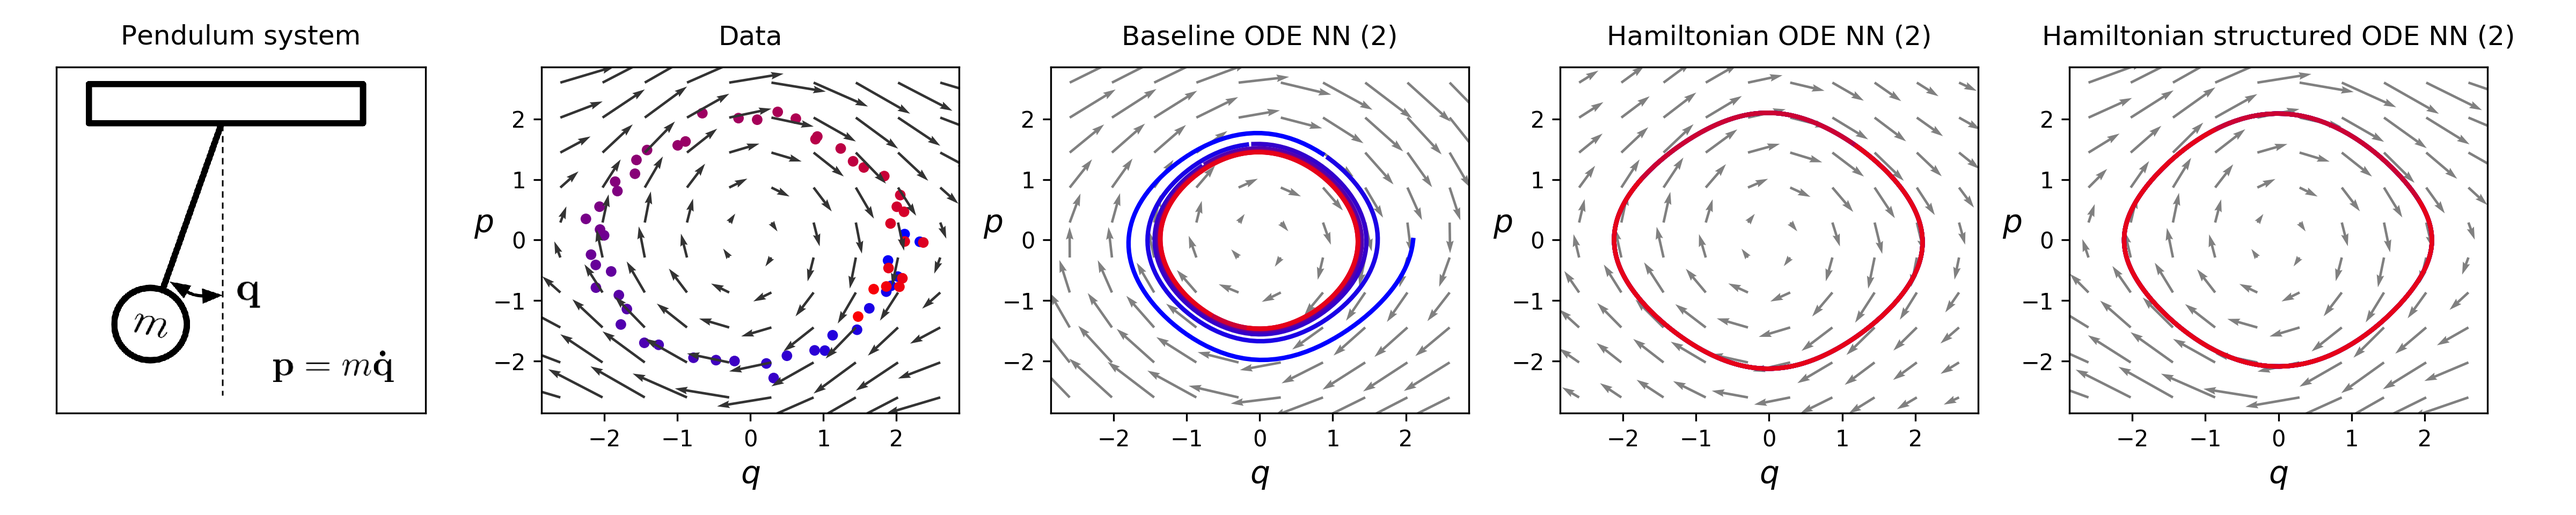
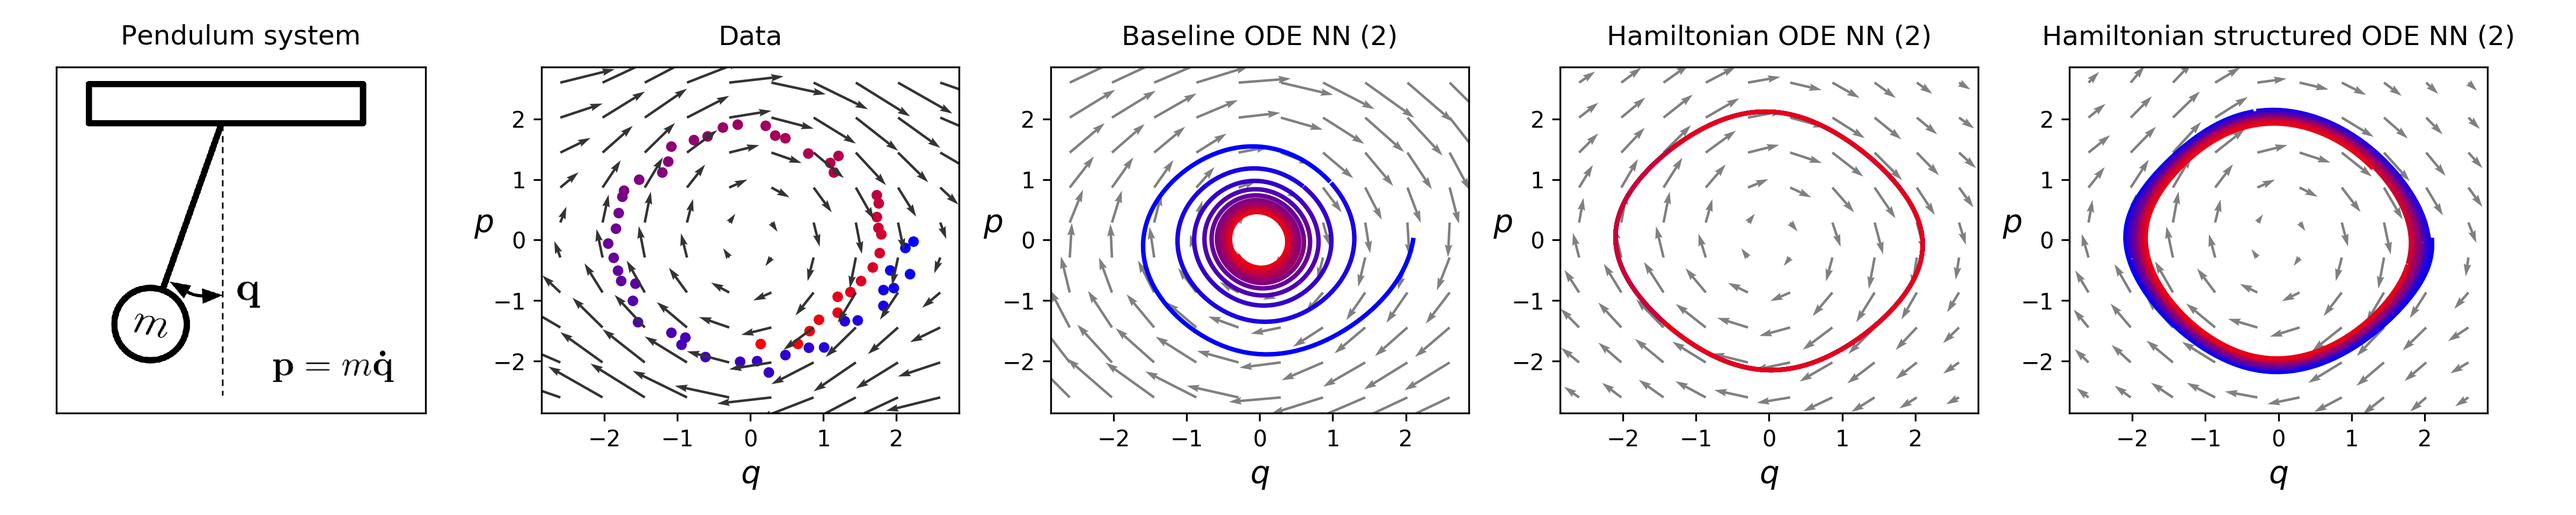
in the process of making a damped HNN work better

diff --git a/analyze-pend.py b/analyze-pend.py
@@ -333,8 +333,8 @@ fig.savefig('{}/pend-p{}-integration.{}'.format(args.fig_dir, args.num_points, F
 
 # plotting the difference between trajectories
 tpad = 7
-pts = 500
-pte = 1000
+pts = 1500
+pte = 2000
 fig = plt.figure(figsize=[12, 4], dpi=DPI)
 plt.subplot(1,3,1)
 plt.title("True and Baseline", pad=tpad) ; plt.xlabel('t')
@@ -388,4 +388,94 @@ plt.title("Structured HNN ODE", pad=tpad) ; plt.xlabel('epochs')
 plt.plot(np.array(hnn_ode_struct_stats['train_loss'])[0:500])
 plt.plot(np.array(hnn_ode_struct_stats['test_loss'])[0:500])
 
+
 #%%
+
+# figure for Biswa
+###### PLOT ######
+fig = plt.figure(figsize=(6, 3.2), facecolor='white', dpi=DPI)
+# plot physical system
+fig.add_subplot(1, 2, 1, frameon=True) 
+plt.xticks([]) ;  plt.yticks([])
+schema = mpimg.imread(EXPERIMENT_DIR + '/pendulum.png')
+plt.imshow(schema)
+plt.title("Pendulum system", pad=10)
+
+# plot dynamics
+fig.add_subplot(1, 2, 2, frameon=True)
+x, y, dx, dy, t = get_trajectory(t_span=[0,4], radius=2.1, y0=y0)
+N = len(x)
+point_colors = [(i/N, 0, 1-i/N) for i in range(N)]
+plt.scatter(x,y, s=14, label='data', c=point_colors)
+
+plt.quiver(field['x'][:,0], field['x'][:,1], field['dx'][:,0], field['dx'][:,1],
+        cmap='gray_r', scale=ARROW_SCALE, width=ARROW_WIDTH, color=(.2,.2,.2))  
+plt.xlabel("$q$", fontsize=14)
+plt.ylabel("$p$", rotation=0, fontsize=14)
+plt.title("Data", pad=10)
+
+plt.tight_layout() ; plt.show()
+fig.savefig('{}/pend-p{}-to-Biswa.{}'.format(args.fig_dir, args.num_points, FORMAT))
+
+#%%
+
+# plot for Biswa
+
+fig = plt.figure(figsize=(9.6, 6.4), facecolor='white', dpi=DPI)
+
+# plot baseline
+fig.add_subplot(2, 3, 1, frameon=True)
+plt.quiver(field['x'][:,0], field['x'][:,1], base_field[:,0], base_field[:,1],
+        cmap='gray_r', scale=ARROW_SCALE, width=ARROW_WIDTH, color=(.5,.5,.5))
+
+for i, l in enumerate(np.split(base_ivp['y'].T, LINE_SEGMENTS)):
+    color = (float(i)/LINE_SEGMENTS, 0, 1-float(i)/LINE_SEGMENTS)
+    plt.plot(l[:,0],l[:,1],color=color, linewidth=LINE_WIDTH)
+    
+plt.xlabel("$q$", fontsize=14)
+plt.ylabel("$p$", rotation=0, fontsize=14)
+plt.title("Baseline ODE NN ({})".format(args.num_points), pad=10)
+
+# plot HNN
+fig.add_subplot(2, 3, 2, frameon=True)
+plt.quiver(field['x'][:,0], field['x'][:,1], hnn_field[:,0], hnn_field[:,1],
+        cmap='gray_r', scale=ARROW_SCALE, width=ARROW_WIDTH, color=(.5,.5,.5))
+
+for i, l in enumerate(np.split(hnn_ivp['y'].T, LINE_SEGMENTS)):
+    color = (float(i)/LINE_SEGMENTS, 0, 1-float(i)/LINE_SEGMENTS)
+    plt.plot(l[:,0],l[:,1],color=color, linewidth=LINE_WIDTH)
+
+plt.xlabel("$q$", fontsize=14)
+plt.ylabel("$p$", rotation=0, fontsize=14)
+plt.title("Hamiltonian ODE NN ({})".format(args.num_points), pad=10)
+
+# plot HNN structure
+fig.add_subplot(2, 3, 3, frameon=True)
+plt.quiver(field['x'][:,0], field['x'][:,1], hnn_struct_field[:,0], hnn_struct_field[:,1],
+        cmap='gray_r', scale=ARROW_SCALE, width=ARROW_WIDTH, color=(.5,.5,.5))
+
+for i, l in enumerate(np.split(hnn_struct_ivp['y'].T, LINE_SEGMENTS)):
+    color = (float(i)/LINE_SEGMENTS, 0, 1-float(i)/LINE_SEGMENTS)
+    plt.plot(l[:,0],l[:,1],color=color, linewidth=LINE_WIDTH)
+
+plt.xlabel("$q$", fontsize=14)
+plt.ylabel("$p$", rotation=0, fontsize=14)
+plt.title("Hamiltonian structured ODE NN ({})".format(args.num_points), pad=10)
+
+plt.subplot(2,3,4)
+plt.title("True and Baseline", pad=tpad) ; plt.xlabel('t')
+plt.plot(t_eval[pts:pte], true_x[pts:pte,0], t_eval[pts:pte], true_x[pts:pte,1], 'g-')
+plt.plot(t_eval[pts:pte], base_x[pts:pte,0], '--', t_eval[pts:pte], base_x[pts:pte,1], 'b--')
+
+plt.subplot(2,3,5)
+plt.title("True and HNN ODE", pad=tpad) ; plt.xlabel('t')
+plt.plot(t_eval[pts:pte], true_x[pts:pte,0], t_eval[pts:pte], true_x[pts:pte,1], 'g-')
+plt.plot(t_eval[pts:pte], hnn_x[pts:pte,0], '--', t_eval[pts:pte], hnn_x[pts:pte,1], 'b--')
+
+plt.subplot(2,3,6)
+plt.title("True and Structured HNN ODE", pad=tpad) ; plt.xlabel('t')
+plt.plot(t_eval[pts:pte], true_x[pts:pte,0], t_eval[pts:pte], true_x[pts:pte,1], 'g-')
+plt.plot(t_eval[pts:pte], hnn_struct_x[pts:pte,0], '--', t_eval[pts:pte], hnn_struct_x[pts:pte,1], 'b--')
+
+plt.tight_layout() ; plt.show()
+fig.savefig('{}/pend-p{}-traj-to-Biswa.{}'.format(args.fig_dir, args.num_points, FORMAT))

diff --git a/nn_models.py b/nn_models.py
@@ -7,19 +7,58 @@ from utils import choose_nonlinearity
 
 
 class MLP(torch.nn.Module):
-  '''Just a salt-of-the-earth MLP'''
-  def __init__(self, input_dim, hidden_dim, output_dim, nonlinearity='tanh'):
-    super(MLP, self).__init__()
-    self.linear1 = torch.nn.Linear(input_dim, hidden_dim)
-    self.linear2 = torch.nn.Linear(hidden_dim, hidden_dim)
-    self.linear3 = torch.nn.Linear(hidden_dim, output_dim, bias=None)
+    '''Just a salt-of-the-earth MLP'''
+    def __init__(self, input_dim, hidden_dim, output_dim, nonlinearity='tanh'):
+        super(MLP, self).__init__()
+        self.linear1 = torch.nn.Linear(input_dim, hidden_dim)
+        self.linear2 = torch.nn.Linear(hidden_dim, hidden_dim)
+        self.linear3 = torch.nn.Linear(hidden_dim, output_dim, bias=None)
 
-    for l in [self.linear1, self.linear2, self.linear3]:
-      torch.nn.init.orthogonal_(l.weight) # use a principled initialization
+        for l in [self.linear1, self.linear2, self.linear3]:
+            torch.nn.init.orthogonal_(l.weight) # use a principled initialization
 
-    self.nonlinearity = choose_nonlinearity(nonlinearity)
+        self.nonlinearity = choose_nonlinearity(nonlinearity)
 
-  def forward(self, x, separate_fields=False):
-    h = self.nonlinearity( self.linear1(x) )
-    h = self.nonlinearity( self.linear2(h) )
-    return self.linear3(h)
+    def forward(self, x, separate_fields=False):
+        h = self.nonlinearity( self.linear1(x) )
+        h = self.nonlinearity( self.linear2(h) )
+        return self.linear3(h)
+
+
+class PSD(torch.nn.Module):
+    '''A Neural Net which outputs a positive semi-definite matrix'''
+    def __init__(self, input_dim, hidden_dim, diag_dim, nonlinearity='tanh'):
+        super(PSD, self).__init__()
+        assert diag_dim > 1
+        self.diag_dim = diag_dim
+        self.off_diag_dim = int(diag_dim * (diag_dim - 1) / 2)
+        self.linear1 = torch.nn.Linear(int(input_dim/2), hidden_dim)
+        self.linear2 = torch.nn.Linear(hidden_dim, hidden_dim)
+        self.linear3 = torch.nn.Linear(hidden_dim, self.off_diag_dim, bias=None)
+        self.linear4 = torch.nn.Linear(hidden_dim, diag_dim)
+
+        for l in [self.linear1, self.linear2, self.linear3]:
+            torch.nn.init.orthogonal_(l.weight) # use a principled initialization
+        
+        self.nonlinearity = choose_nonlinearity(nonlinearity)
+
+    def forward(self, x):
+        bs = x.shape[0]
+        q, p = torch.split(x, 1, dim=1)
+        h = self.nonlinearity( self.linear1(p) )
+        h = self.nonlinearity( self.linear2(h) )
+        diag = torch.nn.functional.relu( self.linear4(h) )
+        off_diag = self.linear3(h)
+
+        L = torch.diag_embed(diag)
+
+        ind = np.tril_indices(self.diag_dim, k=-1)
+        flat_ind = np.ravel_multi_index(ind, (self.diag_dim, self.diag_dim))
+        L = torch.flatten(L, start_dim=1)
+        L[:, flat_ind] = off_diag
+        L = torch.reshape(L, (bs, self.diag_dim, self.diag_dim))
+
+        D = torch.bmm(L, L.permute(0, 2, 1))
+        return D
+
+

diff --git a/hnn.py b/hnn.py
@@ -9,7 +9,8 @@ from nn_models import MLP
 
 class HNN(torch.nn.Module):
     def __init__(self, input_dim, differentiale_model, device,
-                    baseline=False, assume_canonical_coords=True):
+                    baseline=False, assume_canonical_coords=True,
+                    damp=False, dampNet=None):
         super(HNN, self).__init__()
         self.baseline = baseline
         self.differentiale_model = differentiale_model
@@ -17,6 +18,10 @@ class HNN(torch.nn.Module):
         self.device = device
         self.M = self.permutation_tensor(input_dim)
         self.nfe = 0
+        self.damp = damp
+
+        if damp:
+            self.dampNet = dampNet
         
 
     def forward(self, x):
@@ -24,7 +29,7 @@ class HNN(torch.nn.Module):
             return self.differentiale_model(x)
         else:
             y = self.differentiale_model(x)
-            assert y.dim() == 2 and y.shape[1] == 1
+            # assert y.dim() == 2 and y.shape[1] == 1
             return y
 
     # note that the input of this function has changed to meet the ODENet requirement.
@@ -35,8 +40,19 @@ class HNN(torch.nn.Module):
         else:
             H = self.forward(x) # the Hamiltonian
             dH = torch.autograd.grad(H.sum(), x, create_graph=True)[0]
-            vector_field = torch.matmul(dH, self.M.t())
-            return vector_field
+            H_vector_field = torch.matmul(dH, self.M.t())
+            if not self.damp:
+                return H_vector_field
+            else:
+                D = self.dampNet(x) # (100, 2, 2)
+                D_vector_field = torch.squeeze(
+                    torch.matmul(
+                        torch.unsqueeze(dH, 1),
+                        D # should be transpose but symmetric
+                    )
+                )
+                return H_vector_field - D_vector_field
+
 
 
     def permutation_tensor(self, n):

diff --git a/utils.py b/utils.py
@@ -10,6 +10,24 @@ solve_ivp = scipy.integrate.solve_ivp
 def L2_loss(u, v):
     return (u-v).pow(2).mean()
 
+def read_lipson(experiment_name, save_dir):
+    desired_file = experiment_name + ".txt"
+    with zipfile.ZipFile('{}/invar_datasets.zip'.format(save_dir)) as z:
+        for filename in z.namelist():
+            if desired_file == filename and not os.path.isdir(filename):
+                with z.open(filename) as f:
+                    data = f.read()
+    return str(data)
+
+def str2array(string):
+    lines = string.split('\\n')
+    names = lines[0].strip("b'% \\r").split(' ')
+    dnames = ['d' + n for n in names]
+    names = ['trial', 't'] + names + dnames
+    data = [[float(s) for s in l.strip("' \\r,").split( )] for l in lines[1:-1]]
+
+    return np.asarray(data), names
+
 def to_pickle(thing, path): # save something
     with open(path, 'wb') as handle:
         pickle.dump(thing, handle, protocol=pickle.HIGHEST_PROTOCOL)
